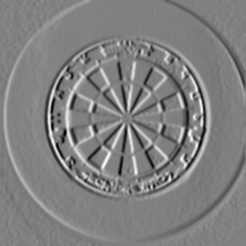
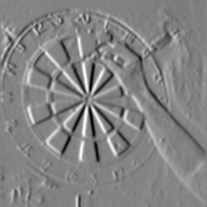
Good line detection for all images

diff --git a/dartboardDetector.cpp b/dartboardDetector.cpp
@@ -199,7 +199,7 @@ void getHoughSpace( Mat &thresholdedMag, Mat &gradientDirection, int threshold, 
 
 				directionTheta = round(directionTheta);
 
-				for (int theta = directionTheta - angleRange; theta < directionTheta + angleRange; theta += 1) {
+				for (int theta = directionTheta - angleRange; theta < directionTheta + angleRange + 1; theta += 1) {
 				// for (int theta = 0; theta < 360; theta++){
 					radians = theta * (PI/ 180);
 
@@ -263,39 +263,26 @@ void drawFoundLines( Mat &frame, Mat &croppedImg, Rect rectangle, std::vector<do
     double m, c;
 		double radians = theta * (PI/ 180);
 
-    // Using y = mx + c
-    // y = (p/sin(theta)) - x(cos(theta)/sin(theta))
-    m = cos(radians) / sin(radians);
-    c = (rho - cropWidth - cropHeight)/sin(radians);
+    if (thetaValues.size() < 10000) {
+      // Using y = mx + c
+      // y = (p/sin(theta)) - x(cos(theta)/sin(theta))
+      m = cos(radians) / sin(radians);
+      c = (rho - cropWidth - cropHeight)/sin(radians);
 
-    // If line is perfectly vertical or horizonal, stay in parameter
-    // space
-    if (cvIsInf(c)) {
-      double a = cos(radians);
-  		double b = sin(radians);
-  		double x0 = a * (rho - cropWidth - cropHeight);
-  		double y0 = b * (rho - cropWidth - cropHeight);
-
-  		point1.x = cvRound(x0 + cropWidth*(-b));
-  		point1.y = cvRound(y0 + cropHeight*(a));
-  		point2.x = cvRound(x0 - cropWidth*(-b));
-  		point2.y = cvRound(y0 - cropHeight*(a));
-    }
-    else {
       // When x = rectangle.x and y = rectangle.y + height
       point1.x = cvRound(rectangle.x);
       point1.y = cvRound(rectangle.y) + cvRound(c);
       // When x = end of image
       point2.x = cvRound(rectangle.x + rectangle.width);
       point2.y = cvRound(rectangle.y) + cvRound(c - (rectangle.width * m));
+
+      clipLine(rectangle, point1, point2);
+
+  		line(image, point1, point2,  Scalar( 0, 0, 255 ), 1);
     }
-
-    clipLine(rectangle, point1, point2);
-
-		line(image, point1, point2,  Scalar( 0, 0, 255 ), 1);
 	}
 
-	imwrite("output/foundLines.jpg", image);
+	// imwrite("output/foundLines.jpg", image);
 }
 
 int findLines( Mat &frame, Mat &croppedImg, Rect rectangle ) {
@@ -305,9 +292,10 @@ int findLines( Mat &frame, Mat &croppedImg, Rect rectangle ) {
   Mat grayImage;
 
   cvtColor( image, grayImage, CV_BGR2GRAY );
-  equalizeHist( grayImage, grayImage );
+  // equalizeHist( grayImage, grayImage );
 
   GaussianBlur(grayImage, grayImage, Size(3,3), 0, 0, BORDER_DEFAULT);
+  // GaussianBlur(grayImage, grayImage, Size(3,3), 0, 0, BORDER_DEFAULT);
 
   Mat dfdx;
   dfdx.create(image.size(), CV_64F);
@@ -411,6 +399,7 @@ int main( int argc, const char** argv ){
 
   // 1. Read Input Image
 	Mat frame = imread(argv[1], CV_LOAD_IMAGE_COLOR);
+  Mat VJOutput = frame.clone();
 
 	// 2. Load the Strong Classifier in a structure called `Cascade'
 	if( !cascade.load( cascade_name ) ){ printf("--(!)Error loading\n"); return -1; };
@@ -418,23 +407,23 @@ int main( int argc, const char** argv ){
 	// 3. Detect Faces with Viola Jones
 	detectVJ( frame );
 
-  // 4. Remove overlapping boxes
-  // removeOverlaps();
+  // 4. Draw Viola Jones boxes
+  displayVJ( VJOutput );
 
-  // 5. Loop through cropped boxes to detect lines
+  // 5. Save image with Viola Jones detections
+  imwrite( "output/detectedVJ.jpg", VJOutput );
+
+  // 6. Loop through cropped boxes to detect lines
   findLinesInBoxes( frame );
 
-  // 6. Draw Viola Jones boxes
+  // 7. Show and save Viola Jones boundaries on line detections
   displayVJ( frame );
-
-  // 7. Save image with Viola Jones detections
-  imwrite( "output/detectedVJ.jpg", frame );
+  imwrite("output/foundLines.jpg", frame);
 
 
-  // Draw final boxes
-  // display( frame );
 
-	// ADDED: 5. Perform F1 test
+
+	// ADDED: 8. Perform F1 test
 	float f1score = F1Test(detectedDartboardsVJ.size(), imgName, frame);
 
 	// 6. Save Result Image
@@ -561,12 +550,7 @@ void findLinesInBoxes( Mat &frame ){
 
   for (int i = 0; i < detectedDartboardsVJ.size(); i ++){
     croppedImg = frameForCrop(detectedDartboardsVJ[i]);
-    imwrite("output/crop.jpg", croppedImg);
     linesFound = findLines(frame, croppedImg, detectedDartboardsVJ[i]);
-    // std::cout << croppedImg.rows << " " << croppedImg.cols << '\n';
-
-    // if (linesFound > 10000)
-    //imwrite("output/crop.jpg", croppedImg);
   }
 
 }
